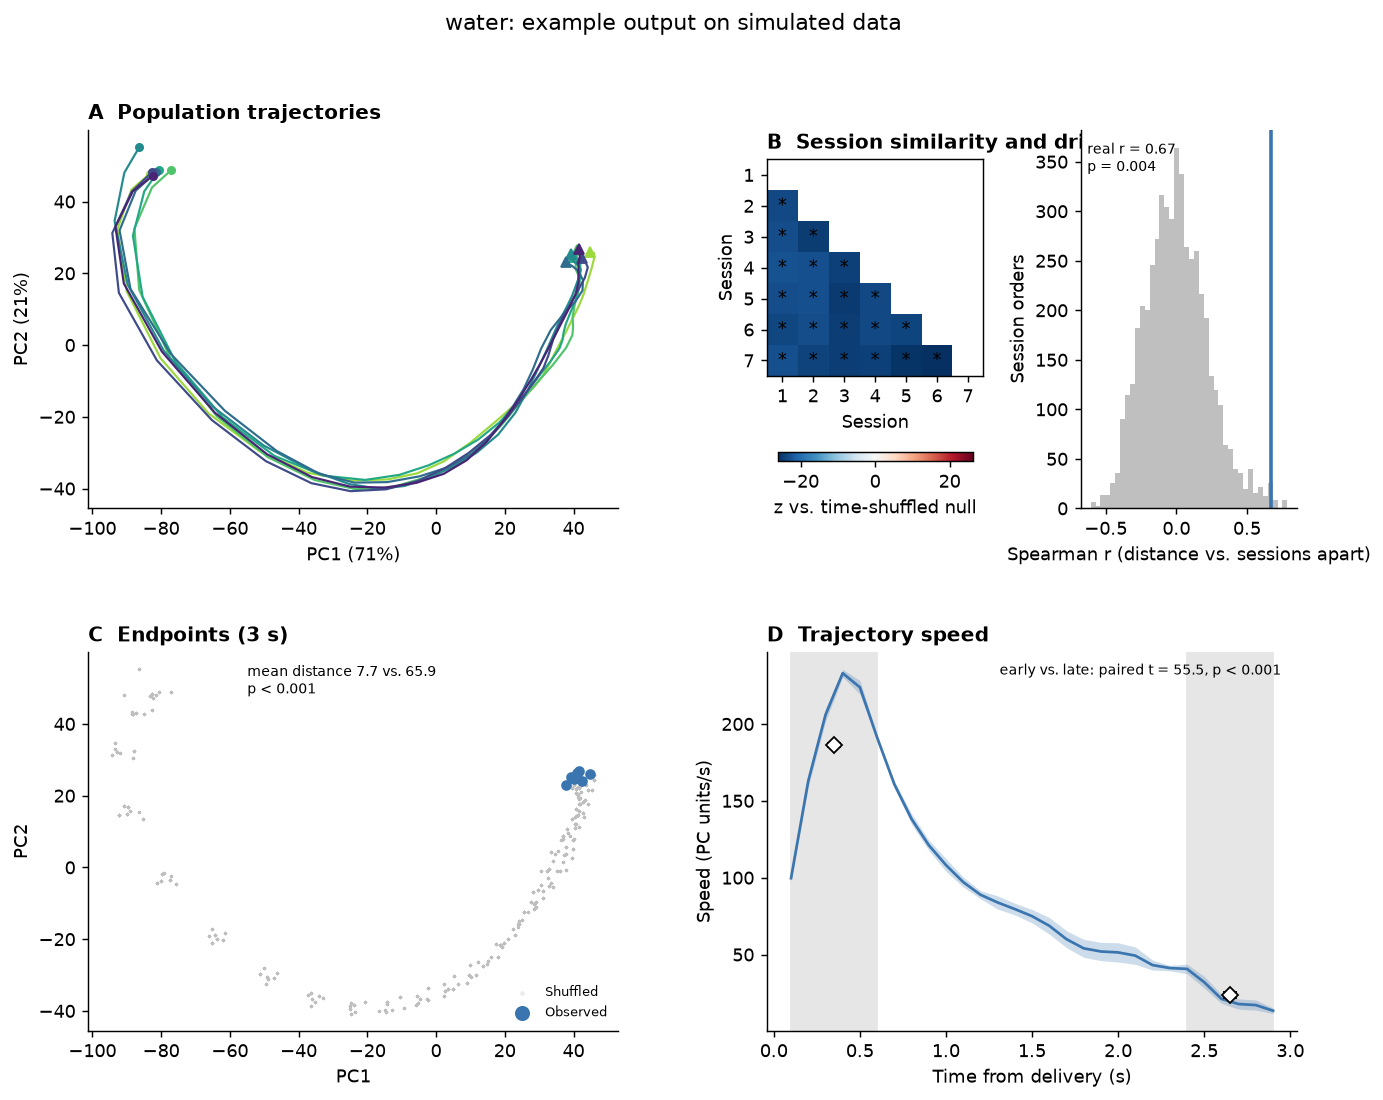
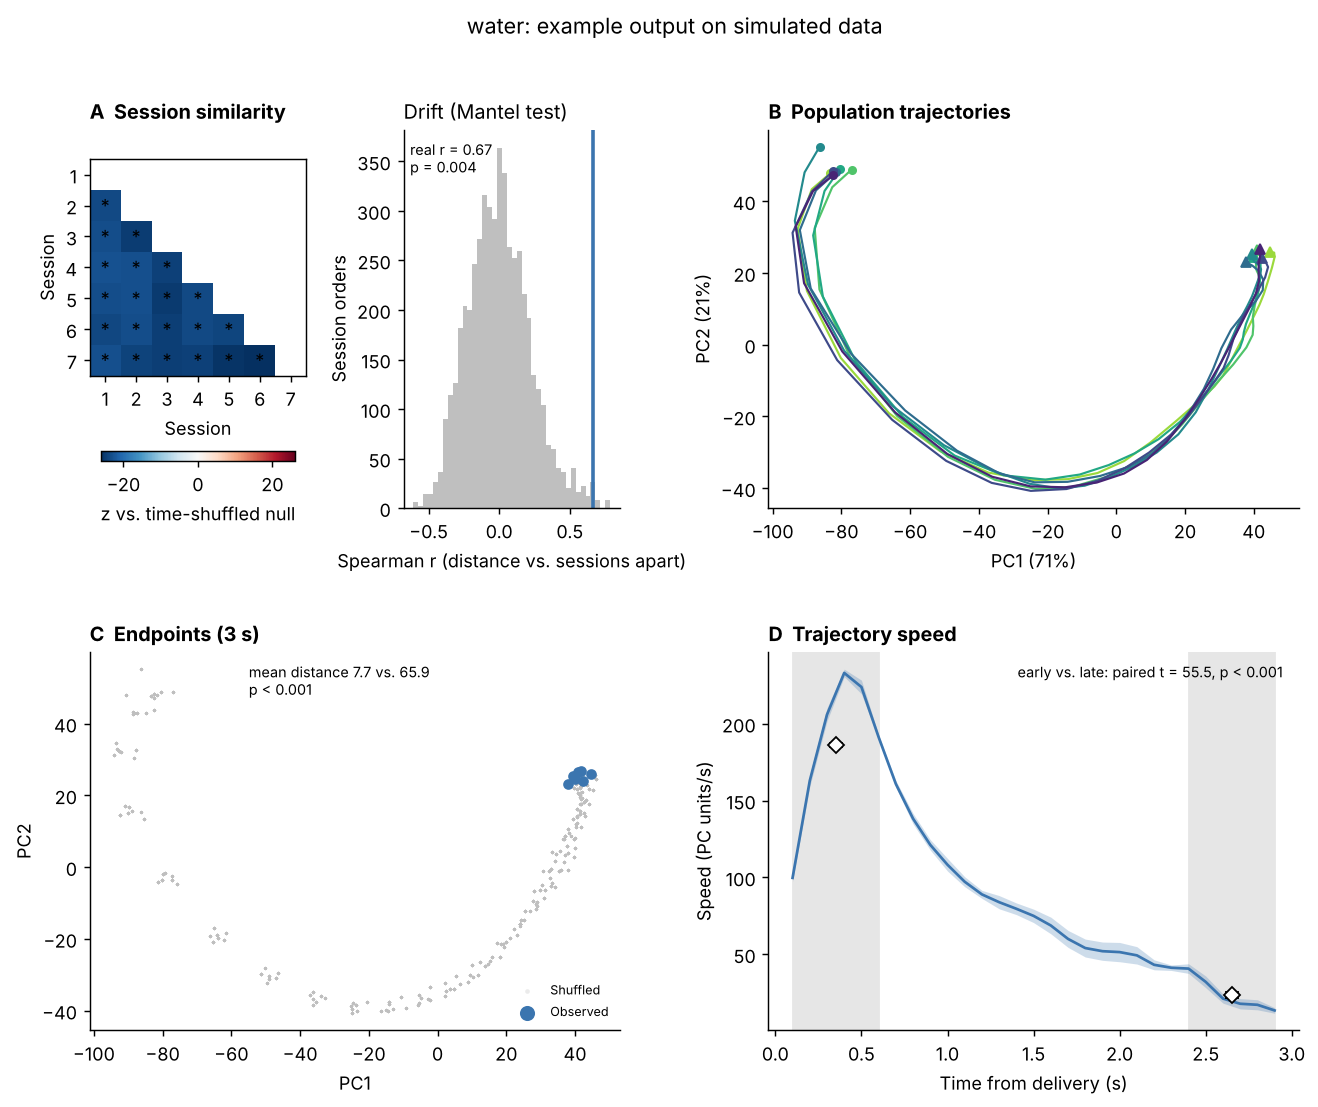
Swap overview panels A and B, set README image sizes

diff --git a/src/taste_dynamics/plotting.py b/src/taste_dynamics/plotting.py
@@ -215,32 +215,37 @@ def plot_overview(
 ) -> Figure:
     """Population analyses for one taste in a 2 x 2 figure.
 
-    A trajectories; B session similarity and drift; C endpoints; D trajectory speed
+    A session similarity and drift; B trajectories; C endpoints; D trajectory speed
     with early vs. late.
     """
     color = taste_colors([taste])[taste] if color is None else color
     fig = plt.figure(figsize=(12, 9))
     grid = fig.add_gridspec(2, 2, hspace=0.38, wspace=0.28)
-    ax_a = fig.add_subplot(grid[0, 0])
-    ab = grid[0, 1].subgridspec(1, 2, wspace=0.45, width_ratios=[1, 1])
-    ax_b1, ax_b2 = fig.add_subplot(ab[0]), fig.add_subplot(ab[1])
+    a = grid[0, 0].subgridspec(1, 2, wspace=0.45, width_ratios=[1, 1])
+    ax_a1, ax_a2 = fig.add_subplot(a[0]), fig.add_subplot(a[1])
+    ax_b = fig.add_subplot(grid[0, 1])
     ax_c, ax_d = fig.add_subplot(grid[1, 0]), fig.add_subplot(grid[1, 1])
 
-    draw_trajectories(ax_a, pca_result)
-    image = draw_session_similarity(ax_b1, similarity)
-    fig.colorbar(image, ax=ax_b1, orientation="horizontal", location="bottom", pad=0.2, shrink=0.9,
+    image = draw_session_similarity(ax_a1, similarity)
+    fig.colorbar(image, ax=ax_a1, orientation="horizontal", location="bottom", pad=0.2, shrink=0.9,
                  label="z vs. time-shuffled null")
-    draw_drift_null(ax_b2, drift, color)
+    draw_drift_null(ax_a2, drift, color)
+    draw_trajectories(ax_b, pca_result)
     draw_endpoints(ax_c, endpoints, color)
     draw_velocity(ax_d, velocity, color)
 
     for ax, title in [
-        (ax_a, "A  Population trajectories"),
-        (ax_b1, "B  Session similarity and drift"),
+        (ax_b, "B  Population trajectories"),
         (ax_c, "C  Endpoints (3 s)"),
         (ax_d, "D  Trajectory speed"),
     ]:
         ax.set_title(title, loc="left", fontsize=11, fontweight="bold")
+    ax_a2.set_title("Drift (Mantel test)", loc="left", fontsize=11)
+    # The heatmap is square, so it is shorter than its neighbor; align its title with the drift plot's.
+    top = ax_a2.get_position().y1
+    pad = plt.rcParams["axes.titlepad"] / 72 / fig.get_figheight()  # title padding, in figure units
+    fig.text(ax_a1.get_position().x0, top + pad, "A  Session similarity", fontsize=11, fontweight="bold",
+             va="baseline")
     fig.suptitle(f"{taste}: example output on simulated data", fontsize=12)
     return fig
 

diff --git a/README.md b/README.md
@@ -19,13 +19,13 @@ Notes: time windows include their start and exclude their end; shuffle-test p-va
 
 The pipeline was developed for the analysis of multi-session Neuropixels recordings, which are unpublished and not included here. It extends the original course-project analysis with corrections and additional tests that have so far been run only on simulated data. The figures below are produced from **simulated data**; they demonstrate the analyses and are not findings.
 
-![Rasters and PSTHs of two example units](figures/raster_psth.png)
+<img src="figures/raster_psth.png" alt="Rasters and PSTHs of two example units" width="300">
 
 Rasters (top; trials grouped by taste) and PSTHs (bottom) of two taste-responsive units.
 
-![Population analyses for water](figures/overview_water.png)
+ <img src="figures/overview_water.png" alt="Population analyses for water" width="450">
 
-Population analyses for one taste (water). **A** Each session's trajectory in the first two PCs (circle: delivery; triangle: 3 s later). **B** Left: distance between every pair of sessions as a z-score against a null in which each unit's time bins are shuffled within each session (`*`: FDR-corrected p < 0.05). Right: drift (Mantel test): Spearman correlation between the distance of each session pair and the number of sessions between them, for the real session order (colored line) and for all 5,040 orders of the 7 sessions (gray). **C** Session endpoints against endpoints from shuffled data. **D** Trajectory speed over time (mean ± SEM across sessions); diamonds show the mean speed in the shaded early and late windows (± SEM), compared with a paired t-test.
+   Population analyses for one taste (water). **A** Left: distance between every pair of sessions as a z-score against a null in which each unit's time bins are shuffled within each session (`*`: FDR-corrected p < 0.05). Right: drift (Mantel test): Spearman correlation between the distance of each session pair and the number of sessions between them, for the real session order (colored line) and for all 5,040 orders of the 7 sessions (gray). **B** Each session's trajectory in the first two PCs (circle: delivery; triangle: 3 s later). **C** Session endpoints against endpoints from shuffled data. **D** Trajectory speed over time (mean ± SEM across sessions); diamonds show the mean speed in the shaded early and late windows (± SEM), compared with a paired t-test.
 
 ## Synthetic data
 
